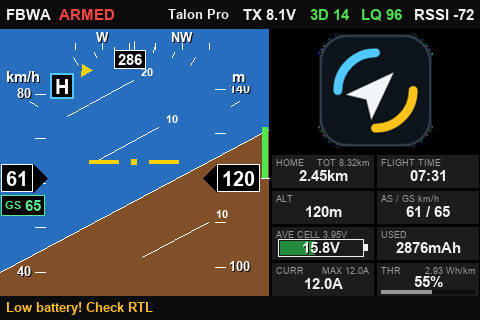
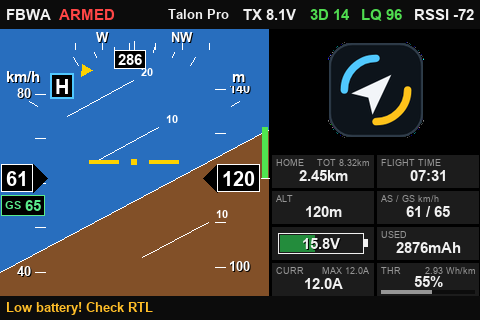
Revert the 1.0.0f docs on main until the 1.0.0 release
README.md, docs/mono/README.md and docs/screens back to 01c8419 (they
describe the released 0.4.1 and Mono 0.1.1 again); CHANGELOG.md removed.
The 1.0.0f docs (5d29eb2, 4b129ff, adbc28a) return with the 1.0.0 release.

Claude-Session: https://claude.ai/code/session_01GmoibvpnuskTtR8W3SJH59

Changed region(s): [[0.6562, 0.0938, 0.9062, 0.4688], [0.5625, 0.7188, 0.7812, 0.8125]]

diff --git a/README.md b/README.md
@@ -11,7 +11,7 @@ A full-screen widget with a horizon and tapes, a moving map with optional satell
 
 ![Main page in flight](docs/screens/main.png)
 
-**Status:** 1.0.0f, in testing; the current release is [0.4.1](https://github.com/erwinquilloy/OmniDeck/releases/tag/v0.4.1). New since 0.4.1: the [PARAMS page](#params-page-parameter-editor) for **INAV 9.1+** and **Betaflight 4.5, 2025.12 and 2026.6** (it was ArduPilot only), hold - / + to repeat in its editor, an average-cell battery display, the mLRS bridge on mLRS's own frames, and a layout pass for the TX16S MK3. Every change is in the [changelog](CHANGELOG.md). The guide with a side outline is at [erwinquilloy.github.io/ardupilot-tools/omnideck.html](https://erwinquilloy.github.io/ardupilot-tools/omnideck.html) (it describes 0.4.1 until the next release).
+**Status:** 0.4.1. New in 0.4.1 for ArduPilot: the [PARAMS page](#params-page-parameter-editor) to read and change ArduPlane parameters from the radio, the aircraft's [mission on the map](#missions), and a [mission editor](#mission-editor) that sends a new mission to the aircraft. See [what you need](#parameters-and-missions-what-you-need) for the links and firmware they work with. The same guide with a side outline is at [erwinquilloy.github.io/ardupilot-tools/omnideck.html](https://erwinquilloy.github.io/ardupilot-tools/omnideck.html).
 
 **Chat:** questions, ideas and flight reports on the [Arduplane Stratos Discord](https://discord.gg/NrfaPSpEFp).
 
@@ -44,11 +44,11 @@ A full-screen widget with a horizon and tapes, a moving map with optional satell
 
 - **Avionics:** artificial horizon with pitch ladder and roll scale, speed and altitude tapes, heading tape with a home marker, vertical speed bar.
 - **Map:** vector map with range rings, flight trail, home and waypoints, or satellite and street tiles from the SD card. Aircraft-centred or home-centred, north up or heading up.
-- **Data blocks:** distance to home and total distance, flight time, altitude, airspeed and ground speed, battery gauge (pack or average cell voltage), mAh used, current, throttle and live efficiency.
+- **Data blocks:** distance to home and total distance, flight time, altitude, airspeed and ground speed, battery gauge, mAh used, current, throttle and live efficiency.
 - **Status messages** from ArduPilot with severity colours and a beep. A repeated message shows once with a count.
 - **Ready to arm** while disarmed, and voice call-outs for flight modes, arming, battery, failsafes and GPS.
 - **Flight summary** on disarm, an optional live **Flight stats** page, and a **flight log** file per flight on the SD card.
-- **PARAMS page:** read and change flight controller settings from the radio, in groups: 77 ArduPlane parameters plus rows of your own, 62 INAV settings (INAV 9.1 or later) or 58 Betaflight settings (4.5, 2025.12, 2026.6). Every save is read back to check it.
+- **PARAMS page (ArduPilot):** read and change 77 ArduPlane parameters from the radio, in groups such as FLIGHT, TECS, PID and VTOL, plus rows of your own. Every save is read back to check it.
 - **Missions:** the ArduPilot mission downloaded from the aircraft onto the map, a mission editor that makes or changes one and sends it to the aircraft, ArduPilot `.waypoints` files (Ethos) or waypoints learned from telemetry; INAV missions downloaded over the telemetry link.
 
 ## Radios and links
@@ -63,7 +63,6 @@ A full-screen widget with a horizon and tapes, a moving map with optional satell
 | RadioMaster TX12 MK2 | EdgeTX ([OmniDeck Mono](#omnideck-mono-black-and-white-radios)) | 128 x 64 | Tested (bench) |
 | RadioMaster GX12 | EdgeTX (OmniDeck Mono) | 128 x 64 | Tested (tester) |
 | RadioMaster Pocket, Boxer | EdgeTX (OmniDeck Mono) | 128 x 64 | Not tested |
-| FrSky Taranis X9D, X9D+, X9E | EdgeTX (OmniDeck Mono 0.1.2, in testing) | 212 x 64 | Simulator only |
 | OpenTX colour radios | OpenTX 2.3 | 480 x 272 | (in progress) |
 
 ArduPilot sends FrSky passthrough telemetry (the same data Yaapu uses) over every link. INAV and Betaflight are read from the radio's own telemetry sensors.
@@ -119,19 +118,7 @@ The [PARAMS page](#params-page-parameter-editor), the [ArduPilot mission downloa
 
 - **ExpressLRS in MAVLink mode** (ELRS Lua "Link Mode" = MAVLink), with any firmware: the receiver passes only MAVLink to the flight controller, so OmniDeck's requests never arrive, and the module turns only telemetry back into CRSF. Switch Link Mode to Normal, or use S.Port / F.Port or mLRS. The telemetry screens still work in MAVLink mode, as fast as ArduPilot sends MAVLink on that port (1 Hz by default: raise `MAVn_EXTRA1`, `MAVn_EXTRA2` and `MAVn_EXT_STAT`).
 - **TBS Crossfire at 50 Hz:** too slow for now. Force 150 Hz.
-- **INAV and Betaflight:** the mission editor is ArduPilot only. INAV missions still [download onto the map](#missions). Their PARAMS page has its own needs, below.
-
-**INAV and Betaflight**
-
-The PARAMS page talks MSP to INAV and Betaflight, over the same telemetry link:
-
-| Flight controller | Versions | Links |
-|---|---|---|
-| INAV | 9.1.0 or later | ExpressLRS (Link Mode Normal), TBS Crossfire at 150 Hz, S.Port / F.Port. mLRS only with a test mLRS Tx firmware ("MSP over cbridge"): stock mLRS drops the radio's MSP |
-| Betaflight | 4.5, 2025.12 and 2026.6 | ExpressLRS (Link Mode Normal), TBS Crossfire at 150 Hz, S.Port / F.Port. 2026.6 checked on a quad over ExpressLRS |
-
-- **INAV 7 and 8** can't carry the setting commands over the radio link, and **INAV 9.0.x** answers them without the values (fixed in 9.1.0): the page says "Parameters need INAV 9.1 or later".
-- **Betaflight** has no settings by name over MSP, only fixed blocks of bytes whose layout can change between versions. OmniDeck knows the layouts of 4.5, 2025.12 and 2026.6; any other version gets "Parameters need Betaflight 4.5, 2025.12 or 2026.6" with the version it found, and nothing is written. For those, use Betaflight Configurator.
+- **INAV and Betaflight:** the PARAMS page and the mission editor are ArduPilot only. INAV missions still [download onto the map](#missions).
 
 When requests go out and no answer comes back, the PARAMS page says **"The flight controller doesn't answer"**, with a hint for the link in use.
 
@@ -327,7 +314,7 @@ Tap the screen or press ENTER for the next page. The wheel zooms the map and scr
 | Messages | Setting **Messages page**: Auto (ArduPilot only, the default), On or Off. |
 | Flight stats | Setting **Flight stats page**, Off by default. On: always in the cycle, live during the flight. |
 | Sensor check | Setting **Sensor check page**, Off by default. Turn it on when you report a problem. |
-| PARAMS | Setting **Params page (ArduPilot, INAV)**, Off by default. ArduPilot, INAV 9.1+ and Betaflight 4.5 / 2025.12 / 2026.6. ENTER and the wheel work inside the page; RTN leaves it (see [keys](#keys-and-touch)). |
+| PARAMS | Setting **ArduPilot params page**, Off by default. ArduPilot only. ENTER and the wheel work inside the page; RTN leaves it (see [keys](#keys-and-touch)). |
 
 The **flight summary** opens by itself on disarm (if **Flight summary on disarm** is On and the aircraft was armed for at least 10 s) and goes back to the main page after 15 s. Tap or turn to another page to leave sooner.
 
@@ -379,11 +366,11 @@ With ArduPilot and the PARAMS page or mission download On, the header also has a
 
 ![PARAMS page, FLIGHT group](docs/screens/params.png)
 
-Read and change flight controller settings from the radio at the field, without a laptop: ArduPilot (ArduPlane parameters), [INAV](#inav-settings) 9.1 or later and [Betaflight](#betaflight-settings) 4.5, 2025.12 or 2026.6. Turn it on with **Params page (ArduPilot, INAV)** (Off by default); the page then joins the page cycle whenever the flight controller is one of them. It works on every colour radio: Ethos X20 family, X18, and EdgeTX. Check [what you need](#parameters-and-missions-what-you-need) first: over S.Port and F.Port any ArduPilot answers; over ELRS and Crossfire it needs ArduPlane Stratos v2.2.1 or later; over mLRS, the cbridge setting. On black-and-white radios use the [OmniDeck Param Editor](https://github.com/erwinquilloy/param-editor).
+Read and change ArduPlane parameters from the radio at the field, without a laptop. Turn it on with **ArduPilot params page** (Off by default); the page then joins the page cycle whenever the flight controller is ArduPilot. It works on every colour radio: Ethos X20 family, X18, and EdgeTX. Check [what you need](#parameters-and-missions-what-you-need) first: over S.Port and F.Port any ArduPilot answers; over ELRS and Crossfire it needs ArduPlane Stratos v2.2.1 or later; over mLRS, the cbridge setting.
 
 ### Groups
 
-The left column holds the groups, the right column the open group's rows: name, value and unit. The ArduPilot groups:
+The left column holds the groups, the right column the open group's rows: name, value and unit.
 
 | Group | Parameters |
 |---|---|
@@ -413,12 +400,11 @@ VTOL and Q PID show only on a quadplane (`Q_ENABLE` 1). Choice parameters such a
 |---|---|---|---|---|
 | Group column (left) | Moves the highlight. Nothing is opened or read | Opens the group, cursor on its first row | Next page | Tap a group to open it |
 | Rows (right) | Moves the cursor, inside the open group | Opens the editor for that row | Back to the group column | Tap a row to edit it |
-| Editor | Changes the value by its step | Saves | Back, without saving | **-**, **+** (hold to repeat), **Back**, **Save** (X18: also **-10**, **+10**) |
+| Editor | Changes the value by its step | Saves | Back, without saving | **-**, **+**, **Back**, **Save** (X18: also **-10**, **+10**) |
 
 - **< BACK** in the lower right does the same as RTN. When a group has more rows than fit, up and down arrows appear left of it; groups that fit show none.
 - A tap that hits no button does nothing, so the page is never left by a missed tap. Leave it with RTN or BACK: once from the group column, twice from a group's rows. Only the "doesn't answer" screen, which has no buttons, turns the page on a tap.
 - The bottom line shows the keys for where you are.
-- **Hold - or +** (and -10 / +10 on the X18) and the value keeps stepping: after half a second, 10 steps a second, faster after 2.5 s, until you lift the finger or slide it off the button. A tap is still one step, and nothing is sent before Save.
 - **X18 (480 x 320):** larger groups and rows for touch; drag either column to scroll.
 
 | | |
@@ -441,7 +427,7 @@ VTOL and Q PID show only on a quadplane (`Q_ENABLE` 1). Choice parameters such a
 ### Armed and in flight
 
 - **While armed the page is view only:** the editor opens but says **Armed: view only**, and nothing is written.
-- Setting **Params: edit in flight** = **Gains and trim** lets the PID and Q PID rows, `PTCH_TRIM_DEG` and `KFF_THRAT2ELEV` be changed while armed (INAV and Betaflight: see their sections). Change one wheel click at a time, with height to spare, as when tuning from a GCS.
+- Setting **ArduPilot params: edit in flight** = **Gains and trim** lets the PID and Q PID rows, `PTCH_TRIM_DEG` and `KFF_THRAT2ELEV` be changed while armed. Change one wheel click at a time, with height to spare, as when tuning from a GCS.
 
 ### ARMING_SKIPCHK
 
@@ -466,52 +452,6 @@ WP_RADIUS | WP radius | 5
 - Each row is `NAME`, optionally `| label | step` (the editor text and the wheel step). Without a step the wheel moves 1 for whole numbers, otherwise about 1 % of the value. Rows have no range of their own; ArduPilot keeps its limits.
 - Rows before any `[GROUP]` go to OTHER. `Q_` rows show only when `Q_ENABLE` is 1. A name already in the list is skipped.
 - At most 100 rows and 14 groups. Restart the radio, or select the model again, after editing. The Sensor check page's **Params:** line shows how many rows were read and the first line that couldn't be.
-
-### INAV settings
-
-| | |
-|---|---|
-| ![INAV PARAMS page, FLIGHT group](docs/screens/params_inav.png) | ![INAV choice setting in the editor](docs/screens/params_inav_choice.png) |
-| INAV 9.1, FLIGHT group: CLI names, plain units. | A choice setting (`nav_rth_alt_mode`) by name, with the value before. |
-
-With INAV 9.1 or later the page reads and changes INAV settings by their CLI names, shown in plain units (degrees, m, m/s) where INAV stores decidegrees, cm and cm/s. Ranges and choice names (for example RTH alt mode AT_LEAST / MAX) come from the flight controller; a setting it doesn't have shows n/a.
-
-| Group | Settings |
-|---|---|
-| FLIGHT | `max_angle_inclination_rll`, `max_angle_inclination_pit`, `fw_level_pitch_trim`, `roll_rate`, `pitch_rate`, `yaw_rate`, `fw_turn_assist_pitch_gain` |
-| LAUNCH | `nav_fw_launch_thr`, `nav_fw_launch_idle_thr`, `nav_fw_launch_accel`, `nav_fw_launch_climb_angle`, `nav_fw_launch_motor_delay`, `nav_fw_launch_max_altitude`, `nav_fw_launch_max_angle` |
-| NAV THR | `nav_fw_cruise_thr`, `nav_fw_min_thr`, `nav_fw_max_thr`, `nav_fw_pitch2thr`, `nav_fw_climb_angle`, `nav_fw_dive_angle`, `nav_fw_bank_angle`, `nav_fw_cruise_speed`, `nav_fw_allow_manual_thr_increase` |
-| RTH | `nav_rth_altitude`, `nav_rth_alt_mode`, `nav_rth_home_altitude`, `nav_rth_climb_first`, `nav_fw_loiter_radius` |
-| LANDING | `nav_fw_land_approach_length`, `nav_fw_land_glide_alt`, `nav_fw_land_flare_alt`, `nav_fw_land_glide_pitch`, `nav_fw_land_flare_pitch` |
-| MISSION | `nav_wp_radius`, `nav_auto_speed`, `nav_max_auto_speed`, `nav_extra_arming_safety` |
-| FW PID | `fw_p_roll`, `_i`, `_d`, `_ff`, `fw_p_pitch`, `_i`, `_d`, `_ff`, `fw_p_yaw`, `_i`, `_ff`, `tpa_rate`, `tpa_breakpoint`, `fw_tpa_time_constant` |
-| MC PID | `mc_p_roll`, `_i`, `_d`, `mc_p_pitch`, `_i`, `_d`, `mc_p_yaw`, `_i`, `nav_mc_hover_thr`, `nav_land_maxalt_vspd`, `nav_land_minalt_vspd` |
-
-- **Save:** INAV sets the value, OmniDeck reads it back, then stores it in EEPROM while disarmed: **Saved, verified and stored**.
-- **In flight:** OmniDeck asks INAV itself whether it is armed. With **Params: edit in flight** = **Gains and trim**, the PID groups, level trim and hover throttle can be changed; they work at once and are stored after the disarm, on any page. The hint line shows **NOT STORED** until then. Keep the radio linked a few seconds after the disarm before unplugging the battery.
-- **VTOL** (`mixer_control_profile_linking` ON): INAV reads and writes the active profile only, shown on the hint line (for example "profile 2 MULTIROTOR"). Hover PIDs (MC PID) can be changed only in multirotor mode and plane PIDs (FW PID) only in fixed-wing mode; flip the VTOL switch on the bench, disarmed, to edit the other set.
-- The INAV mission download pauses while the page talks to INAV.
-
-### Betaflight settings
-
-![Betaflight PARAMS page, TUNE group](docs/screens/params_betaflight.png)
-
-Betaflight 2026.6, the TUNE group; the hint line shows the version, the PID and rate profile and the rates type.
-
-With Betaflight 4.5, 2025.12 or 2026.6 the page reads and changes 58 settings of the **active** PID and rate profile, named as in the Betaflight CLI. Choice settings show by name (TPA mode PD / D, throttle limit OFF / SCALE / CLIP).
-
-| Group | Settings |
-|---|---|
-| PID | `p_`, `i_`, `d_` for roll, pitch and yaw |
-| FF D | `f_roll`, `f_pitch`, `f_yaw`; `d_max_roll`, `_pitch`, `_yaw`, `d_max_gain` (4.5: `d_min_...`); `feedforward_transition`, `_averaging`, `_smooth_factor`, `_jitter_factor`, `_boost`, `_max_rate_limit` |
-| TUNE | `anti_gravity_gain`, `iterm_relax_cutoff`, `tpa_mode`, `tpa_rate`, `tpa_breakpoint`, `throttle_boost`, `dyn_idle_min_rpm` (in rpm), `motor_output_limit`, `vbat_sag_compensation`, `thrust_linear`, `angle_limit` |
-| RATES | RC rate, super rate and expo per axis (labels follow the rates type: Actual shows center / max rate in deg/s), `thr_mid`, `thr_expo`, `throttle_limit_type`, `throttle_limit_percent` |
-| FILTERS | gyro and D-term lowpass, dynamic notch (count, Q, min, max), RPM filter (harmonics, min) |
-
-- **Save:** the block is read fresh, only that setting changed, sent back up to the end of its group, read back, then stored in EEPROM while disarmed: **Saved, verified and stored**. Everything else in the block is left as it was.
-- The hint line shows the version, the PID and rate profile and the rates type. Switch profiles in Betaflight; the page follows.
-- A build without the dynamic notch or RPM filter shows those rows as n/a.
-- **In flight:** the same rules as INAV. With **Gains and trim** these can be changed while armed: PID, FF D (FF averaging aside) and the TUNE gains: anti gravity, I-term relax cutoff, TPA rate and breakpoint, throttle boost. Rates, filters, TPA mode and the motor, idle and angle settings are view only while armed.
 
 ## On EdgeTX
 
@@ -552,7 +492,7 @@ On Ethos: long-press the widget › **Configure widget**. On EdgeTX: **SYS › T
 | ![OmniDeck Setup, first rows](docs/screens/edgetx_setup_1.png) | ![OmniDeck Setup, missions, pages and ArduPilot parameters](docs/screens/edgetx_setup_2.png) | ![OmniDeck Setup, last rows](docs/screens/edgetx_setup_3.png) |
 | Link, units, main page and map. | Missions, pages and the ArduPilot parameter settings. | ArduPilot parameters, voice and alarms. |
 
-The list is grouped the same way on both systems: link, units, main page, map, missions, pages, parameters, then voice and alarms. Settings new in 0.4.1 start Off.
+The list is grouped the same way on both systems: link, units, main page, map, missions, pages, ArduPilot parameters, then voice and alarms. Settings new in 0.4.1 start Off.
 
 | Setting | Choices | Notes |
 |---|---|---|
@@ -565,8 +505,7 @@ The list is grouped the same way on both systems: link, units, main page, map, m
 | **Main page** | | |
 | Start page | Main · Map | |
 | Main page top-right panel (Ethos) · Top-right panel (EdgeTX) | Minimap · Home arrow · Radar · OmniDeck logo · Logo file / Stratos logo | See [Top-right panel choices](#top-right-panel-choices). |
-| Logo file (Ethos) | None · PNGs in `logos/` | For the Logo file panel. It fills the panel, proportions kept. |
-| Battery block shows | Battery voltage · Average cell | Average cell: the gauge shows the cell voltage and a small line the pack (BATT 15.8V); otherwise the other way round (AVE CELL 3.95V). The cell count comes from **Battery cells**, or from the voltage. |
+| Logo file (Ethos) | None · PNGs in `logos/` | For the Logo file panel. |
 | **Map** | | |
 | Map orientation | North up · Heading up | A tiled map is always north up. |
 | Map view | Aircraft centred · Home centred | Home centred zooms out to keep the aircraft on the map. |
@@ -583,9 +522,9 @@ The list is grouped the same way on both systems: link, units, main page, map, m
 | Flight stats page | Off · On | On: in the cycle, live in flight. |
 | Flight summary on disarm | On · Off | |
 | Sensor check page | Off · On | |
-| **Parameters** | | |
-| Params page (ArduPilot, INAV) | Off · On | Off by default. Puts the [PARAMS page](#params-page-parameter-editor) in the cycle for ArduPilot, INAV and Betaflight. (Was "ArduPilot params page".) |
-| Params: edit in flight | Off · Gains and trim | Off: view only while armed. Gains and trim: the PID and trim rows can be changed in flight. (Was "ArduPilot params: edit in flight".) |
+| **ArduPilot parameters** | | |
+| ArduPilot params page | Off · On | Off by default. Puts the [PARAMS page](#params-page-parameter-editor) in the cycle (ArduPilot only). |
+| ArduPilot params: edit in flight | Off · Gains and trim | Off: view only while armed. Gains and trim: the PID, Q PID and pitch trim rows can be changed in flight. |
 | **Voice and alarms** | | |
 | Voice | Off · voice packs on the card | Picking one plays a test clip. |
 | Message beep | Every message · Warnings and errors · Off | Works with the voice off. |
@@ -724,11 +663,11 @@ Over mLRS, Send uses ArduPilot's standard mission upload, the same as Mission Pl
 
 ## OmniDeck Mono (black-and-white radios)
 
-OmniDeck Mono is OmniDeck for EdgeTX radios with a black-and-white screen: 128 x 64, and from 0.1.2 also 212 x 64 (Taranis X9D, X9D+, X9E). It decodes telemetry the same way as the colour builds, for ArduPilot, INAV and Betaflight over CRSF (ExpressLRS, TBS Crossfire, mLRS), S.Port and F.Port, and fits it on six small pages. It runs as an EdgeTX **telemetry screen script**, not a widget.
+OmniDeck Mono is OmniDeck for EdgeTX radios with a 128 x 64 black-and-white screen. It decodes telemetry the same way as the colour builds, for ArduPilot, INAV and Betaflight over CRSF (ExpressLRS, TBS Crossfire, mLRS), S.Port and F.Port, and fits it on six small pages. It runs as an EdgeTX **telemetry screen script**, not a widget.
 
 ![OmniDeck Mono main page](docs/mono/img/main.png)
 
-**Status:** 0.1.1, beta. Bench-tested on a TX12 MK2 (EdgeTX 2.12) with ArduPilot and INAV over ExpressLRS, and over mLRS 1.4.04, and tested by a tester on a RadioMaster GX12. Not yet tried on the Pocket or Boxer. **0.1.2** (in testing) uses the whole width of 212 x 64 screens; on 128 x 64 it looks the same as 0.1.1.
+**Status:** 0.1.1, beta. Bench-tested on a TX12 MK2 (EdgeTX 2.12) with ArduPilot and INAV over ExpressLRS, and over mLRS 1.4.04, and tested by a tester on a RadioMaster GX12. Not yet tried on the Pocket or Boxer.
 
 **Full guide: [OmniDeck Mono](docs/mono/README.md)** (install, keys, every page, settings, memory, problems).
 
@@ -736,7 +675,7 @@ OmniDeck Mono is OmniDeck for EdgeTX radios with a black-and-white screen: 128 x
 - **Pages:** Main (horizon, heading and home marker, and a labelled column: ALT, SPD, H, BAT, CUR, EF, TIM), Map (aircraft- or home-centred, wheel zoom, coordinates), Messages (ArduPilot), Flight stats (optional), Link check, Sensor check (optional). ENTER moves to the next page. The flight summary opens by itself at disarm and goes back to the start page after 15 s, and a flight log can be written to the SD card.
 - **Settings:** SYS › Tools › OmniDeck Setup, per model: voice, message beeps, units, summary, flight log, voltage and low-altitude alarms, pack capacity, start page, map view, optional pages and link.
 - **Units:** `m`, `km` above 999 m, `k` for km and km/h, `ft`, `mi`, `WH/km` and the rest as set in Setup.
-- **Parameters:** use the [OmniDeck Param Editor](https://github.com/erwinquilloy/param-editor) (ArduPilot, INAV 9.1+, Betaflight 4.5 / 2025.12 / 2026.6; SYS › Tools › OmniDeck Params); OmniDeck Mono has no editor of its own.
+- **ArduPilot parameters:** use the [AP Param Editor](https://github.com/erwinquilloy/ap-param-editor); OmniDeck Mono has no editor of its own.
 - **Memory:** about 127 KB of Lua memory on a TX12 MK2; OmniDeck Mono 0.1.0 used about 97 to 107 KB, and 0.1.1 about 15 KB less; the Link check page shows it. Pages load one at a time.
 - **Compared with the colour builds:** no map tiles, only the active waypoint on the map, no mission files or INAV mission download, no touch or tapes.
 
@@ -752,7 +691,6 @@ Post it on the [Arduplane Stratos Discord](https://discord.gg/NrfaPSpEFp) with t
 - **Display steps every few seconds on TBS Crossfire with ArduPilot:** Crossfire is in its 50 Hz mode; see [ArduPilot over TBS Crossfire at 50 Hz](#ardupilot-over-tbs-crossfire-at-50-hz). Force 150 Hz on the transmitter for a smooth horizon.
 - **EdgeTX "CPU limit" or widget missing:** run OmniDeck Check; update to EdgeTX 2.11 or later.
 - **PARAMS page says "The flight controller doesn't answer":** check [what you need](#parameters-and-missions-what-you-need). Over ELRS or Crossfire it needs ArduPlane Stratos v2.2.1 or later; over mLRS, Tx Ser Port = cbridge; ELRS in MAVLink mode and Crossfire at 50 Hz can't carry it. Over S.Port / F.Port check the passthrough setting on the receiver's port.
-- **PARAMS page says "Parameters need INAV 9.1 or later" or "Parameters need Betaflight 4.5, 2025.12 or 2026.6":** the flight controller's version is one the page can't work with (it names the version it found). Update it, or use INAV or Betaflight Configurator.
 - **Rows stay "..." or turn "n/a" over a weak link:** ENTER on an n/a row asks again. "n/a" on a strong link means the flight controller has no such parameter.
 - **No mission on the map with ArduPilot mission download On:** the same requirements as the PARAMS page, but the download needs Stratos v2.2.1 or later on every link except mLRS.
 

diff --git a/docs/mono/README.md b/docs/mono/README.md
@@ -1,12 +1,10 @@
 # OmniDeck Mono
 
-OmniDeck for EdgeTX radios with a black-and-white screen: 128 × 64, and from 0.1.2 also 212 × 64 (FrSky Taranis X9D, X9D+, X9E). A free telemetry script for ArduPilot, INAV and Betaflight: horizon, map, messages, flight summary, flight log and voice call-outs, on six small pages.
+OmniDeck for EdgeTX radios with a 128 × 64 black-and-white screen. A free telemetry script for ArduPilot, INAV and Betaflight: horizon, map, messages, flight summary, flight log and voice call-outs, on six small pages.
 
 ![Main page in FBWA, 1.5 km out, on its way home](img/main.png)
 
 **Status:** 0.1.1, beta. Bench-tested on a RadioMaster TX12 MK2 (EdgeTX 2.12) with ArduPilot and INAV over ExpressLRS, and over mLRS 1.4.04, and tested by a tester on a RadioMaster GX12. Not yet tried on the Pocket or Boxer.
-
-**0.1.2** (in testing) uses the whole width of 212 × 64 screens: the horizon and a wider data column side by side, a full-width map, 34-character message lines and wider sensor names and values. On 128 × 64 every page looks the same as in 0.1.1. Checked in the simulator at both sizes; not yet on a Taranis.
 
 Questions, ideas and flight reports: chat with us on the [Arduplane Stratos Discord](https://discord.gg/NrfaPSpEFp).
 
@@ -21,7 +19,7 @@ Questions, ideas and flight reports: chat with us on the [Arduplane Stratos Disc
 - [Flight summary and log](#flight-summary-and-log)
 - [Voice and alarms](#voice-and-alarms)
 - [Settings](#settings)
-- [Parameters](#parameters)
+- [ArduPilot parameters](#ardupilot-parameters)
 - [Memory](#memory)
 - [Problems](#problems)
 - [Test status](#test-status)
@@ -35,7 +33,6 @@ Questions, ideas and flight reports: chat with us on the [Arduplane Stratos Disc
 | RadioMaster TX12 MK2 | 128 × 64 | Tested (bench) |
 | RadioMaster GX12 | 128 × 64 | Tested (tester) |
 | RadioMaster Pocket, Boxer | 128 × 64 | Not tested |
-| FrSky Taranis X9D, X9D+, X9E | 212 × 64 | 0.1.2, simulator only |
 
 | Flight controller | Links |
 |---|---|
@@ -176,11 +173,11 @@ The same call-outs as the colour builds, from the packs in `SCRIPTS/OMNID/audio/
 | SENSOR PAGE | Hide, Show | Hide |
 | LINK | Auto, CRSF, S.Port | Auto |
 
-## Parameters
+## ArduPilot parameters
 
-OmniDeck Mono has no parameter editor of its own. To read and change flight controller settings from the radio, install the [OmniDeck Param Editor](https://github.com/erwinquilloy/param-editor) (it was called AP Param Editor) and open it from **SYS › Tools › OmniDeck Params**. It covers ArduPilot, INAV 9.1 or later and Betaflight 4.5 / 2025.12 / 2026.6, and runs on black-and-white and colour EdgeTX radios and on Ethos. Its own [README](https://github.com/erwinquilloy/param-editor#readme) lists what each flight controller needs.
+OmniDeck Mono has no parameter editor of its own. To read and change ArduPilot parameters from the radio, install the [AP Param Editor](https://github.com/erwinquilloy/ap-param-editor) and open it from **SYS › Tools › APParam**. It runs on black-and-white and colour EdgeTX radios and on Ethos.
 
-| Link | OmniDeck Param Editor needs (ArduPilot) |
+| Link | AP Param Editor needs |
 |---|---|
 | S.Port, F.Port | ArduPilot with FrSky passthrough telemetry |
 | ExpressLRS, TBS Crossfire | ArduPlane Stratos v2.2.1 or later on the flight controller |
@@ -231,13 +228,12 @@ Report anything else on the [Arduplane Stratos Discord](https://discord.gg/NrfaP
 | Freeze and "not enough memory" on the TX12 MK2 | Fixed in 0.1.1 (memory use cut): bench pass, armed over 30 min, ELRS |
 | RadioMaster GX12 (tester) | Tested |
 | Pocket and Boxer | Not yet |
-| 212 × 64 layout (0.1.2) | Simulator, every page; not yet on a Taranis |
 
 ## Compared with colour OmniDeck
 
 - No map tiles. The map shows only the active waypoint, because ArduPilot's passthrough sends only that one. No mission files or INAV mission download.
-- No touch, speed tapes or side panel on these small screens.
-- No built-in parameter editor; use the [OmniDeck Param Editor](https://github.com/erwinquilloy/param-editor).
+- No touch, speed tapes or side panel: the screen is 128 × 64.
+- No built-in parameter editor; use the AP Param Editor.
 
 Screens on this page are rendered by the OmniDeck Mono simulator from the release code; memory figures come from a RadioMaster TX12 MK2 on EdgeTX 2.12.
 
